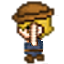
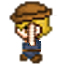
aligned player sprites

diff --git a/core/src/com/teamname/goaton/components/PlayerAnimatedSpriteComponent.java b/core/src/com/teamname/goaton/components/PlayerAnimatedSpriteComponent.java
@@ -70,7 +70,7 @@ public class PlayerAnimatedSpriteComponent extends AnimatedSpriteRenderComponent
                 case UP:
                     switch (walkCycle) {
                         case 0:
-                            currentSprite = sprites.get(Assets.playerC_D);
+                            currentSprite = sprites.get(Assets.playerC_U);
                             break;
                         case 1:
                             currentSprite = sprites.get(Assets.playerC_UL);
